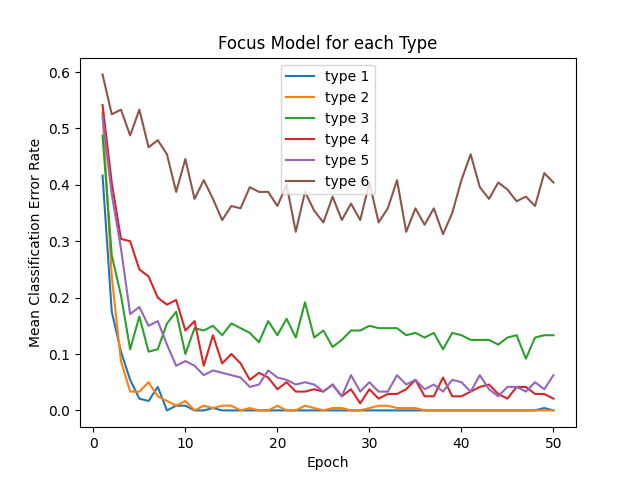
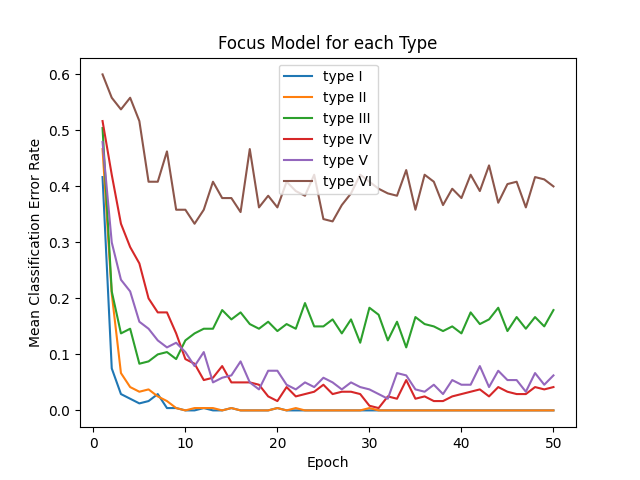
changed naming scheme

diff --git a/divaClasses.py b/divaClasses.py
@@ -46,7 +46,7 @@ class Choose(Choice):
         c2 = self.c2[0]#.mul(self.input[0].abs())
         if self.mode:
             k = Site(self.input.index, {}, max(c1.max()[''], c2.max()['']) - min(c1.min()[''], c2.min()['']))
-            beta = Site(self.input.index, {}, 2)
+            beta = Site(self.input.index, {}, 10.0)
             focus = ((c1.sub(c2)).abs().sub(k[0])).mul(beta[0]).exp()
             diff1 = (c1.sub(self.input[0])).mul(focus).pow(x=2).sum()['']
             diff2 = (c2.sub(self.input[0])).mul(focus).pow(x=2).sum()['']
